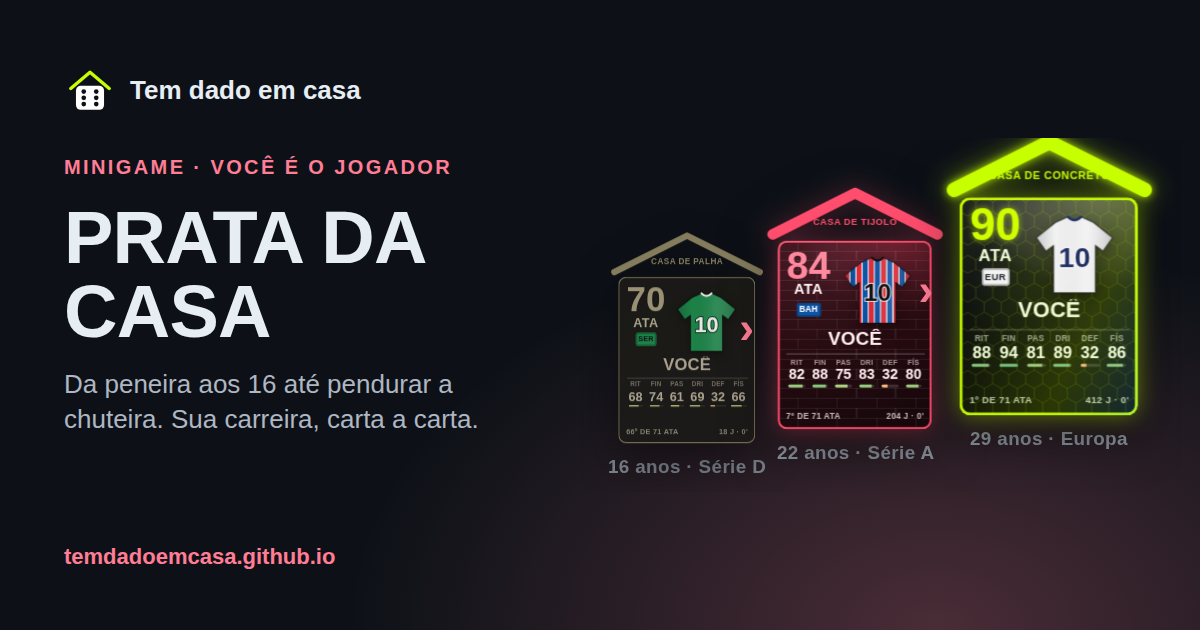
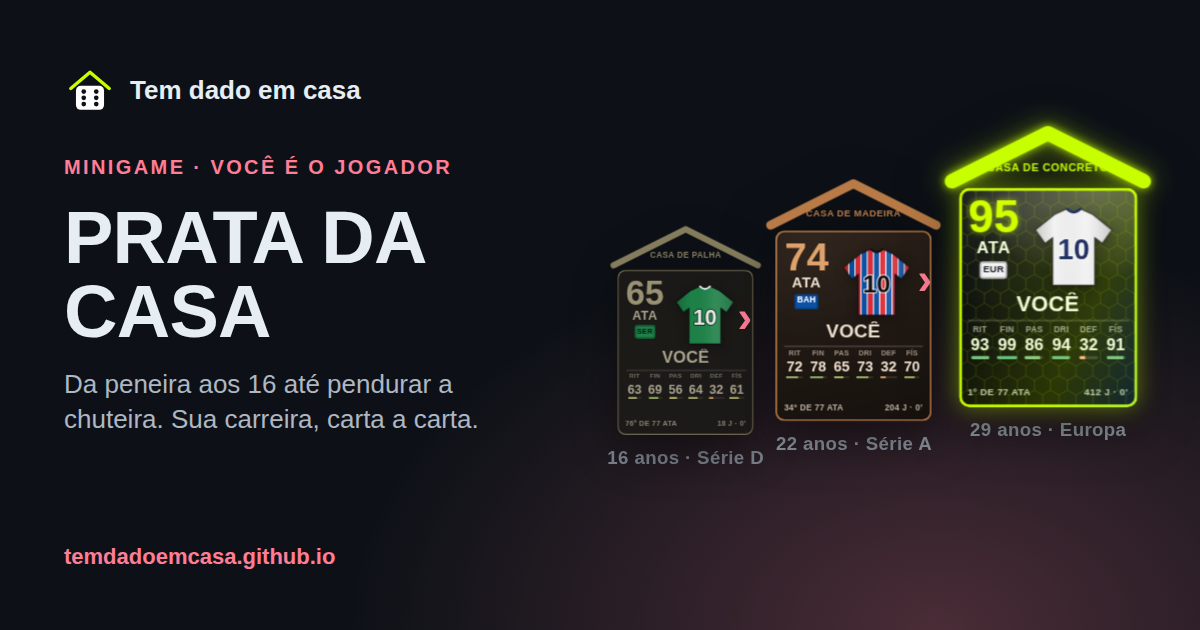
Prévia do link do Prata da Casa com a vitrine nova (65 / 74 / 95)
O gerador da arte (scripts/og/gerar.mjs) dá 30% a mais de altura e não corta: a carta 95
passava do topo. Versão da imagem trocada pra WhatsApp e redes buscarem a nova.

Claude-Session: https://claude.ai/code/session_01J8QkXGsqRtPrZMSgJsHrUT

Changed region(s): [[0.4933, 0.181, 0.9867, 0.754]]

diff --git a/prata-da-casa.html b/prata-da-casa.html
@@ -9,7 +9,7 @@
   <meta property="og:description" content="Dos 16 anos na Série D até a Bola de Ouro. Ou não.">
   <meta property="og:type" content="website">
   <meta property="og:url" content="https://temdadoemcasa.github.io/prata-da-casa.html">
-  <meta property="og:image" content="https://temdadoemcasa.github.io/img/og-prata-da-casa.png?v=2026-09-30">
+  <meta property="og:image" content="https://temdadoemcasa.github.io/img/og-prata-da-casa.png?v=2026-10-23">
   <meta property="og:image:width" content="1200">
   <meta property="og:image:height" content="630">
   <meta property="og:image:alt" content="Prata da Casa: sua carreira de jogador">
